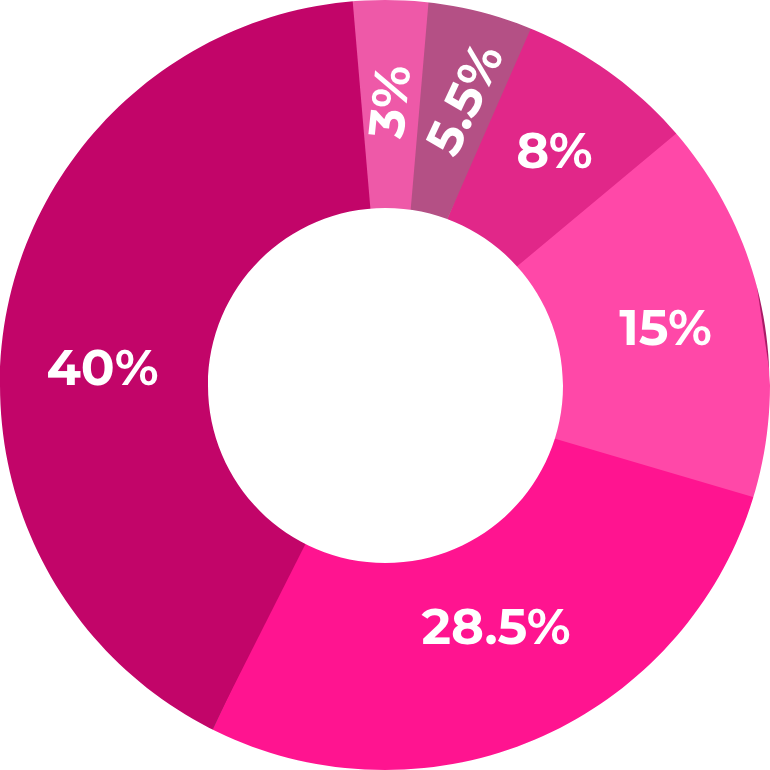
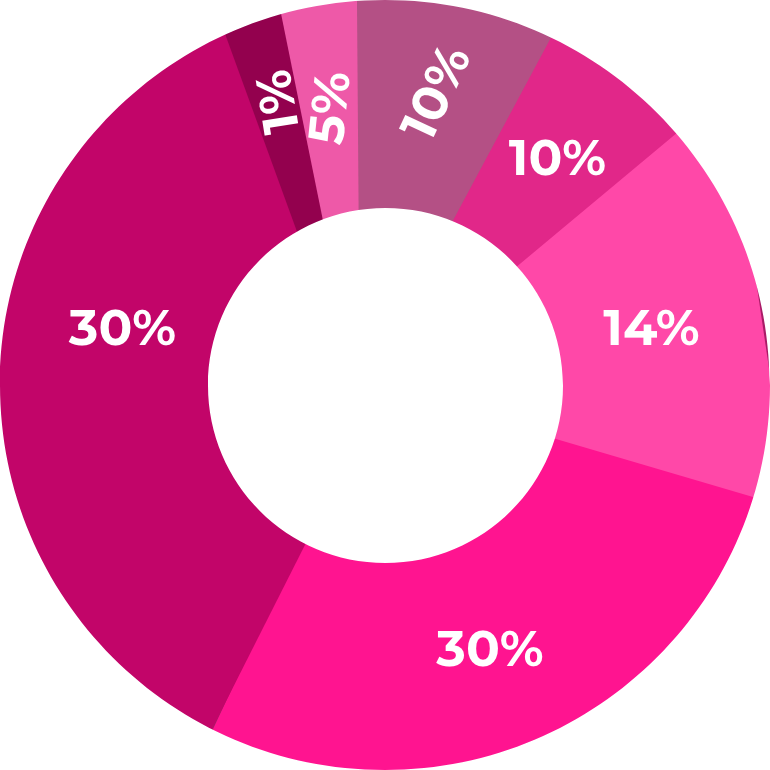
token page changed

diff --git a/src/pages/Tokenpage.js b/src/pages/Tokenpage.js
@@ -114,13 +114,44 @@ const TokenPage = () => {
               alt=""
               className="w-full md:w-96 mx-auto"
             />
-            <div className="text-white w-5/6 mx-auto leading-7 mt-4">
-              <div>Private and public sale: 40% (400,000,000 LEAD)</div>
-              <div>Staking reward: 28.5% (285,000,000 LEAD)</div>
-              <div>Team: 15% (150,000,000 LEAD)</div>
-              <div>Product Development: 8% (80,000,000 LEAD)</div>
-              <div>Marketing: 5.5% (55,000,000 LEAD)</div>
-              <div>Advisors and Partners: 3% (30,000,000 LEAD)</div>
+            <div className="text-white w-full lg:w-2/3 mx-auto mt-12">
+              <div className="text-md text-white font-Montserrat-ExtraBold py-2 text-left w-full relative">
+                <img src="/images/bar_1.svg" alt="" className="w-full" />
+                <div className="w-full h-full absolute flex flex-row items-center pl-1/6 top-0">
+                  Presale 300,000,000 Token(Unlocked)
+                </div>
+              </div>
+              <div className="text-md text-white font-Montserrat-ExtraBold py-2 text-left w-full relative">
+                <img src="/images/bar_2.svg" alt="" className="w-full" />
+                <div className="w-full h-full absolute flex flex-row items-center pl-1/6 top-0">
+                  Marketing 50,000,000 (Unlocked)
+                </div>
+              </div>
+              <div className="text-md text-white font-Montserrat-ExtraBold py-2 text-left w-full relative">
+                <img src="/images/bar_3.svg" alt="" className="w-full" />
+                <div className="w-full h-full absolute flex flex-row items-center pl-1/6 top-0">
+                  Staking Programme 300,000,000(locked for 10 months)
+                </div>
+              </div>
+              <div className="text-md text-white font-Montserrat-ExtraBold py-2 text-left w-full relative">
+                <img src="/images/bar_4.png" alt="" className="w-full" />
+                <div className="w-full h-full absolute flex flex-row items-center pl-1/6 top-0">
+                  Uniswap Liquidity 140,000,000(locked permanently for
+                  liquidity)
+                </div>
+              </div>
+              <div className="text-md text-white font-Montserrat-ExtraBold py-2 text-left w-full relative">
+                <img src="/images/bar_5.svg" alt="" className="w-full" />
+                <div className="w-full h-full absolute flex flex-row items-center pl-1/6 top-0">
+                  Team token 100,000,000 (locked for 10 months)
+                </div>
+              </div>
+              <div className="text-md text-white font-Montserrat-ExtraBold py-2 text-left w-full relative">
+                <img src="/images/bar_6.svg" alt="" className="w-full" />
+                <div className="w-full h-full absolute flex flex-row items-center pl-1/6 top-0">
+                  Dev/Ecosystem Funds 100,000,000(locked for 10 months)
+                </div>
+              </div>
             </div>
           </section>
         </div>
